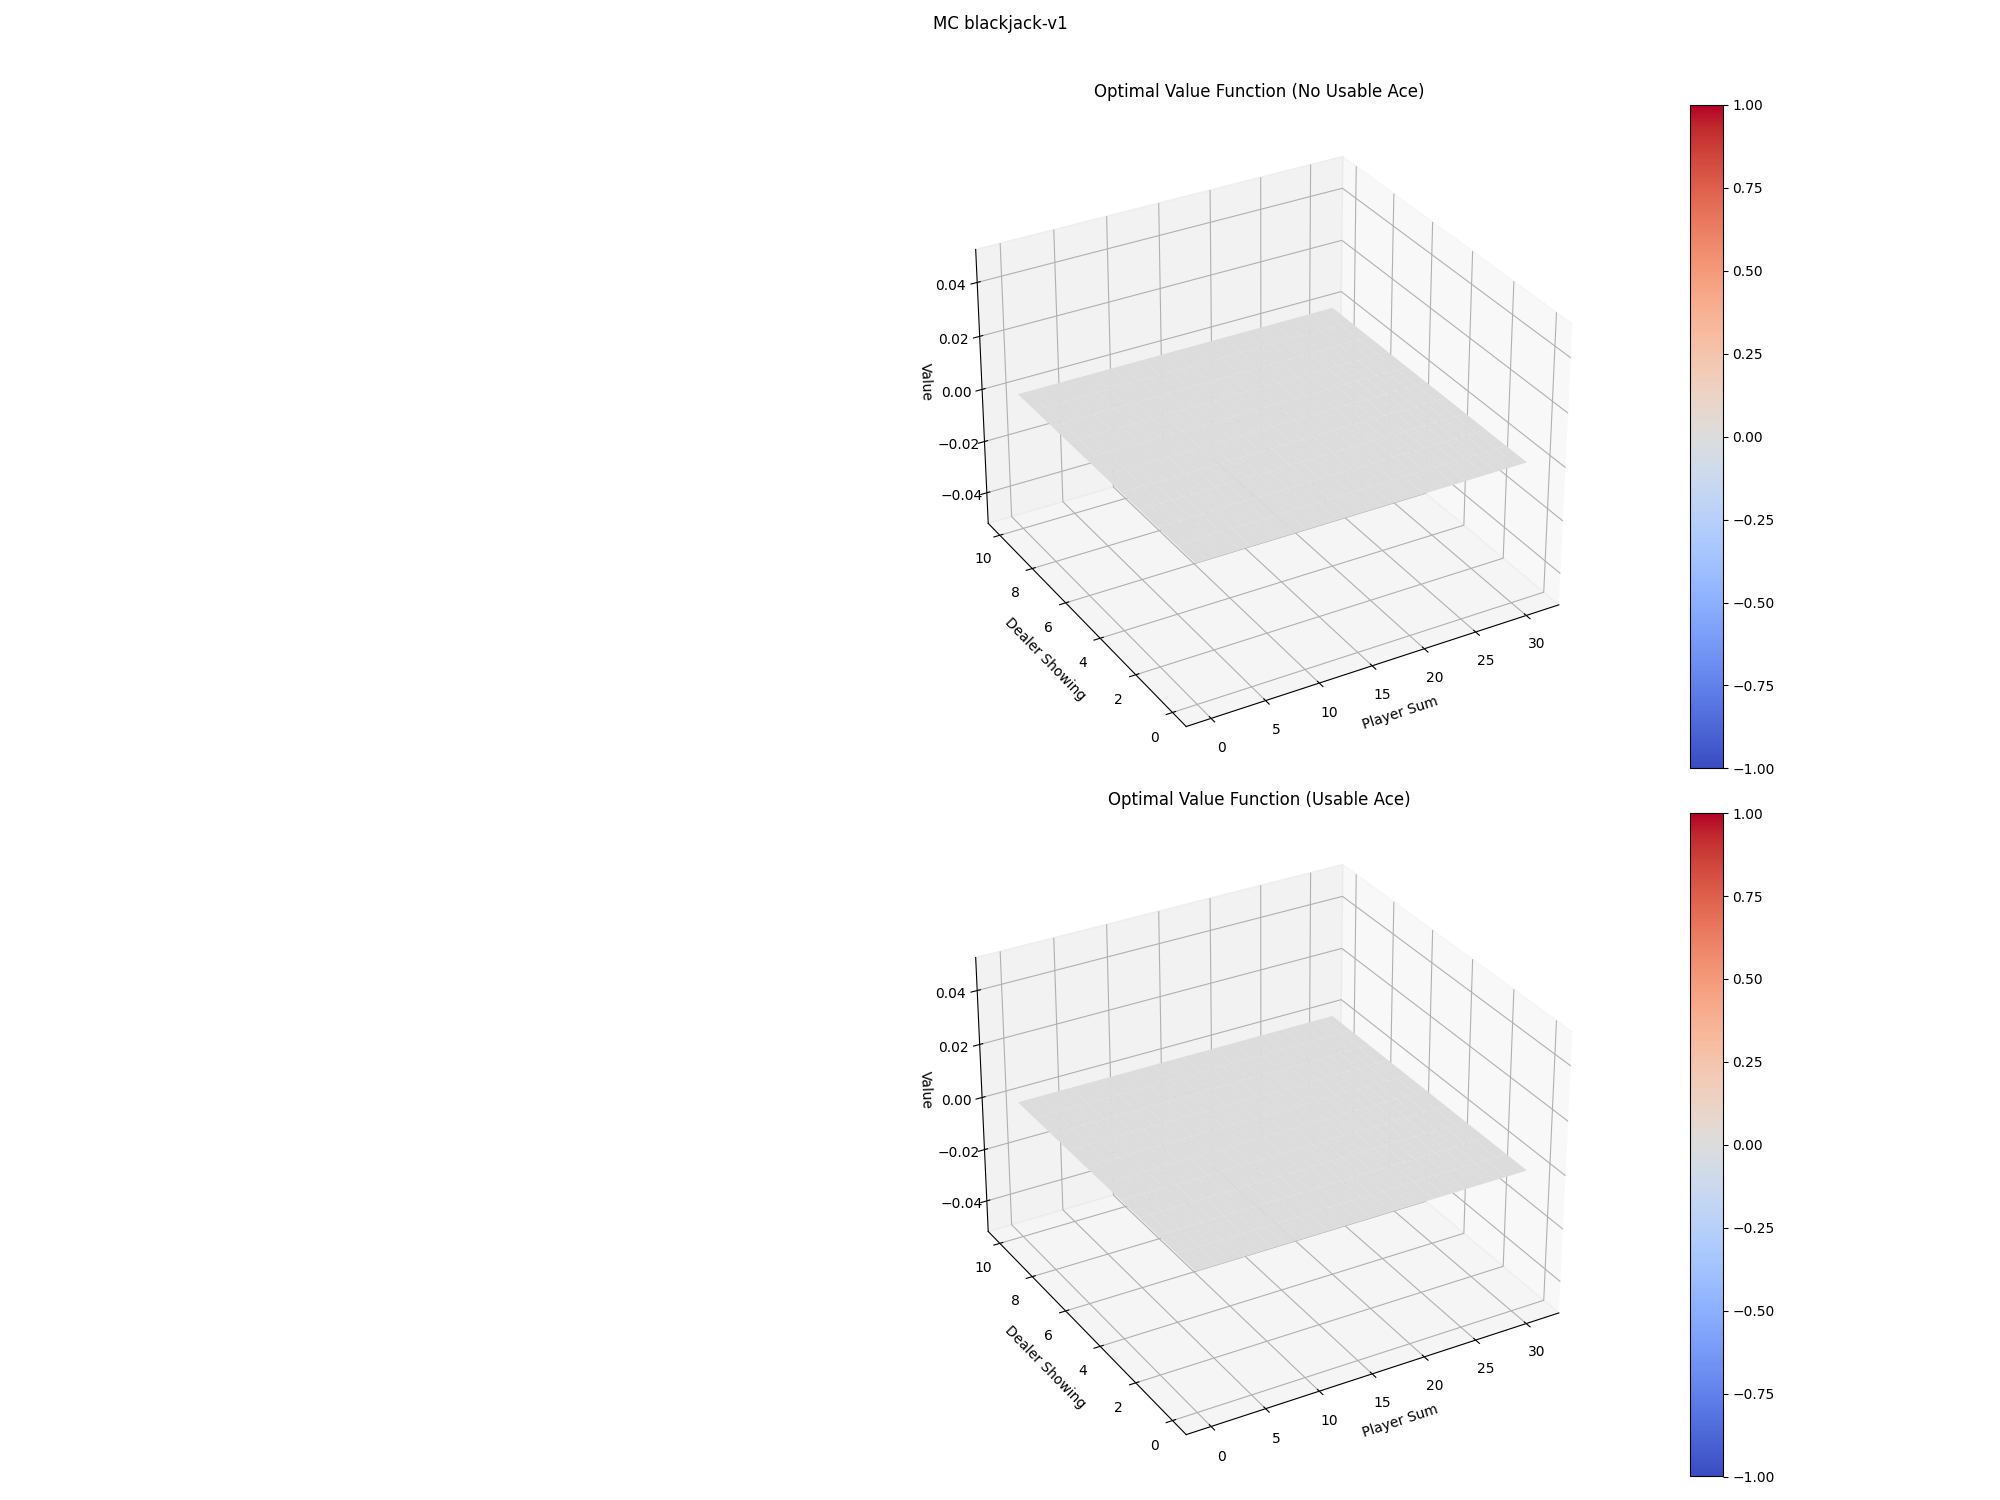
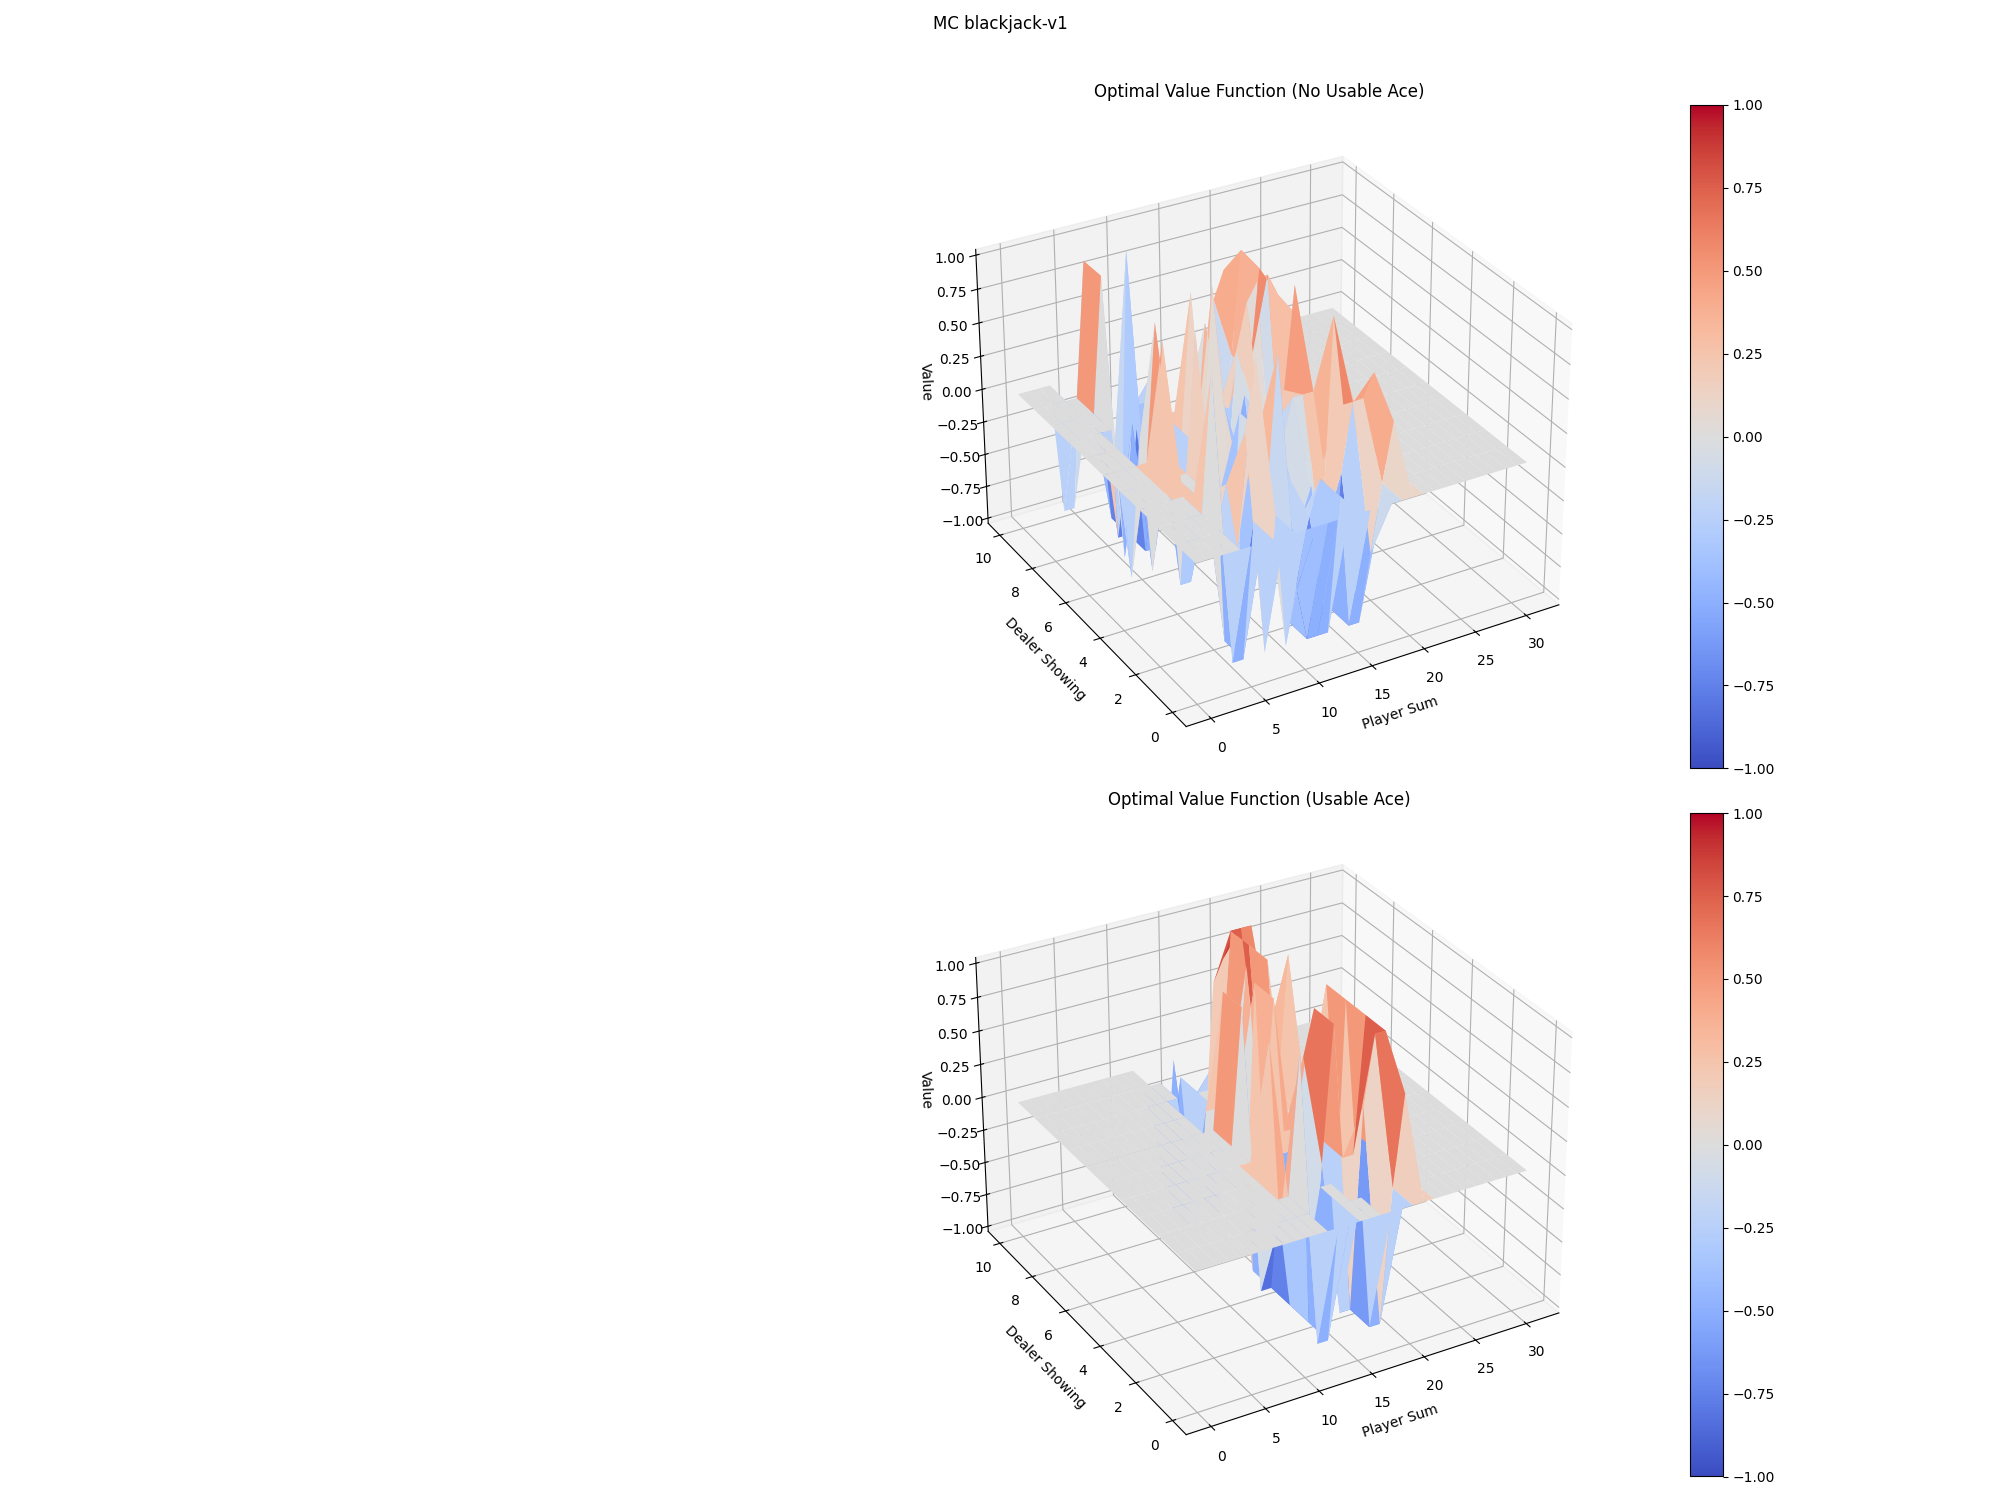
got a graph in control

diff --git a/Lab - Blackjack/lab_2.py b/Lab - Blackjack/lab_2.py
@@ -295,7 +295,7 @@ def mc_control_epsilon_greedy(env, num_episodes, discount_factor=1.0, epsilon=0.
         episode = []
 
         for i in range(max_steps_per_episode):
-            print("action start", action)
+
             next_state, reward, done, _, _ = env.step(action)
 
             next_action = argmax(policy(next_state))
@@ -303,12 +303,9 @@ def mc_control_epsilon_greedy(env, num_episodes, discount_factor=1.0, epsilon=0.
             episode.append([state, action, reward, next_state, next_action])
 
             if done:
-                print("Break")
                 break
-            
-            print("action before", action)
+
             action = next_action
-            print("action after", action)
             
         for e in reversed(episode):
             temp = []
@@ -319,13 +316,13 @@ def mc_control_epsilon_greedy(env, num_episodes, discount_factor=1.0, epsilon=0.
             total_reward += discount_factor*total_reward + e[2]
             if (len(episode[:-1])>=0) and any(e[:2] == e_[:2] for e_ in episode[:-1]):
                 break
-            else: 
+            else:
+
                 Returns[temp] = np.append(Returns[temp], total_reward)
-                Q[temp] = np.mean(Returns[temp])
+                Q[e[0]] = np.mean(Returns[temp])
                 policy = make_epsilon_greedy_policy(Q,epsilon=0.1,nA=env.action_space.n)
                 
-        print("action after 2", action)
-    return Q,policy    
+    return Q,policy
 
 
 
@@ -440,7 +437,6 @@ def run_mc():
     # For plotting: Create value function from action-value function
     # by picking the best action at each state
     values = defaultdict(float)
-    print(list(Q.values())[:10])
     for state, actions in Q.items():
         action_value = np.max(actions)
         values[state] = action_value
